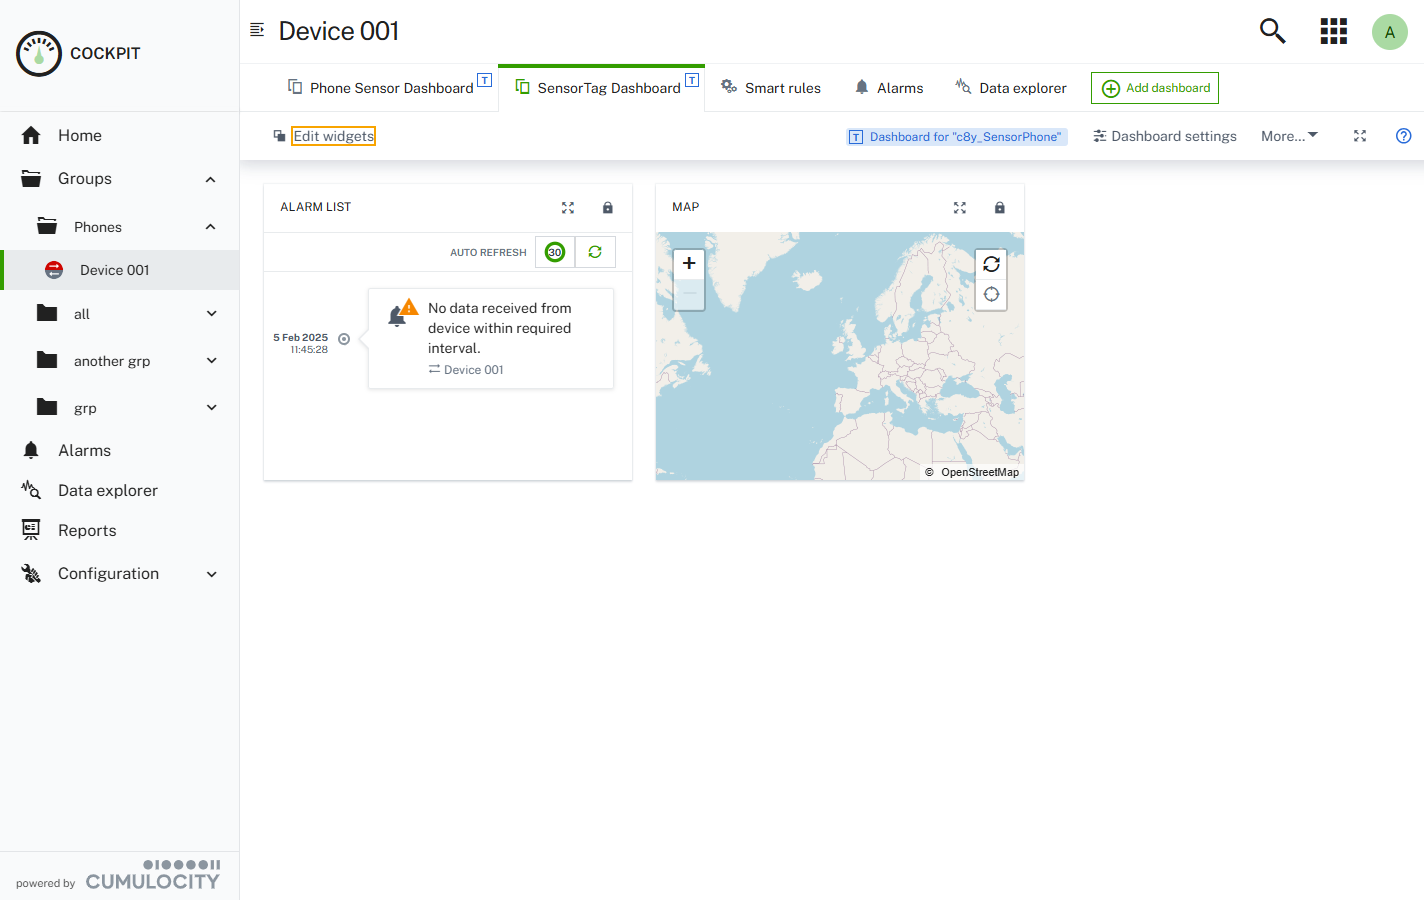
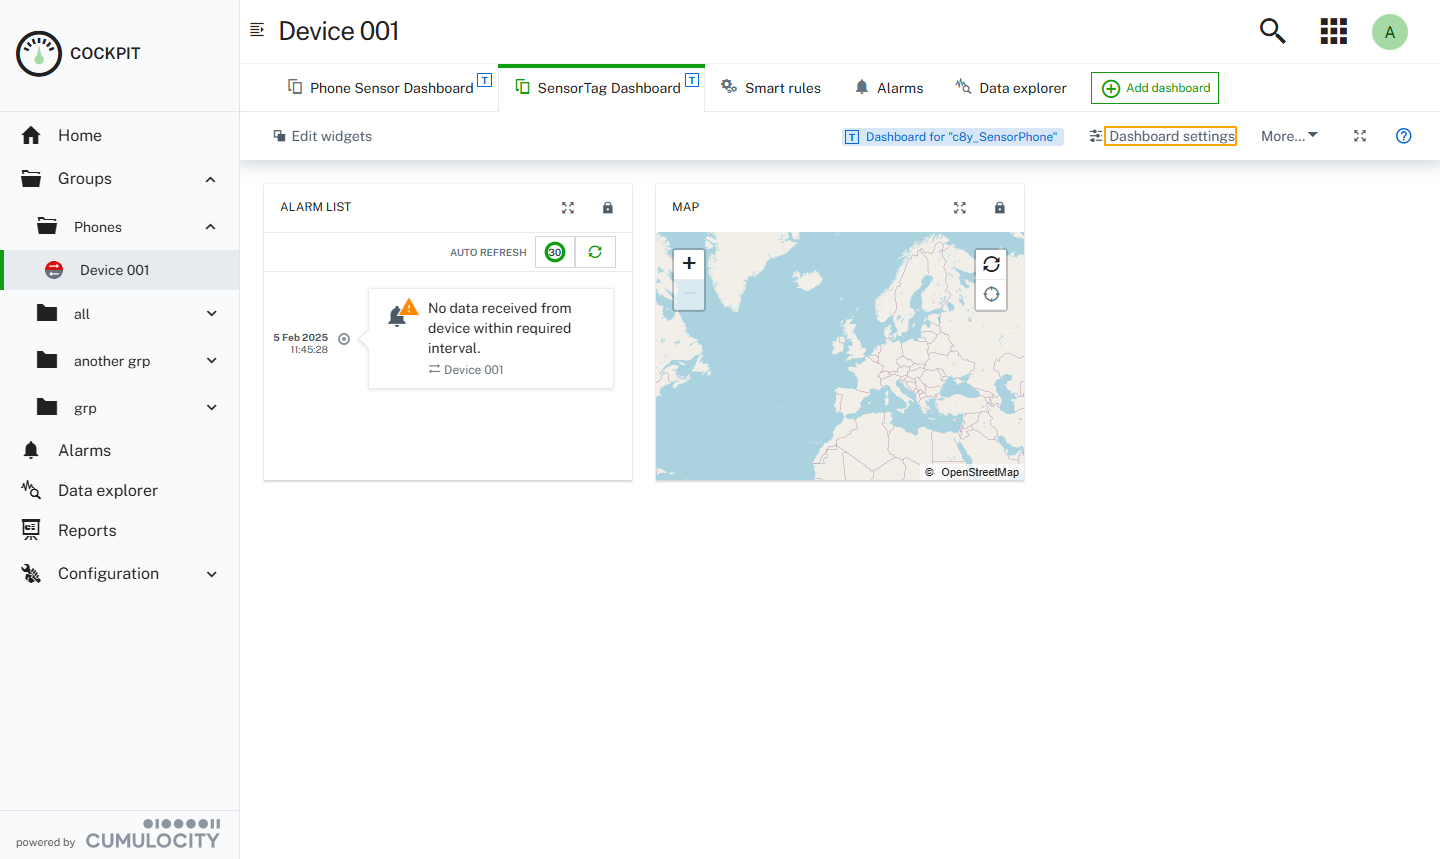
Modified dashboard customize screenshot and update the instructions

diff --git a/content/quick-start/first-steps.md b/content/quick-start/first-steps.md
@@ -113,7 +113,7 @@ On registering a device in the last step, a dashboard has automatically been cre
 Follow the instructions below to customize the new dashboard of the device you registered in the previous step.
 
 1. In the Cockpit application, select the device you created in the previous step (for example, your smartphone in the **Phones** group). Click the **SensorTag Dashboard** tab.
-2. Click **Edit widgets** in the top menu bar to open the editor.
+2. Click **Dashboard settings** in the top menu bar to open the editor.
    ![Customize dashboard](/images/users-guide/getting-started/getting-started-tutorial-dashboard-customize.png)
 
 3. In the **Dashboard settings**, provide the following information:
@@ -138,7 +138,7 @@ Next, we will show you how to create a report to track data.
 
 Reports enable you to track applications, alarms, assets, and other data in a dashboard layout. Reports are global dashboard pages, regardless of the [asset hierarchy](/cockpit/managing-assets/#asset-hierarchy). To work with reports, check if you meet the [requirements](/cockpit/working-with-reports/) first.
 
-To create a report click **Reports** in the **Navigator** on the left side and following the steps below.
+To create a report click **Reports** in the **Navigator** on the left side and follow the steps below.
 
 #### Creating a report
 
@@ -150,7 +150,6 @@ To create a report click **Reports** in the **Navigator** on the left side and f
    ![Add new report](/images/users-guide/getting-started/getting-started-add-new-report-general.png)
 4. In the **Appearance** section, change the theme to "Branded" and set the header style to "Border". The changes will be reflected immediately after selection.
    ![Add new report](/images/users-guide/getting-started/getting-started-add-new-report-appearance.png)
-
 5. Click **Save** to create the report and add it to the report list.
    ![Report created](/images/users-guide/getting-started/getting-started-report-created.png)
 
